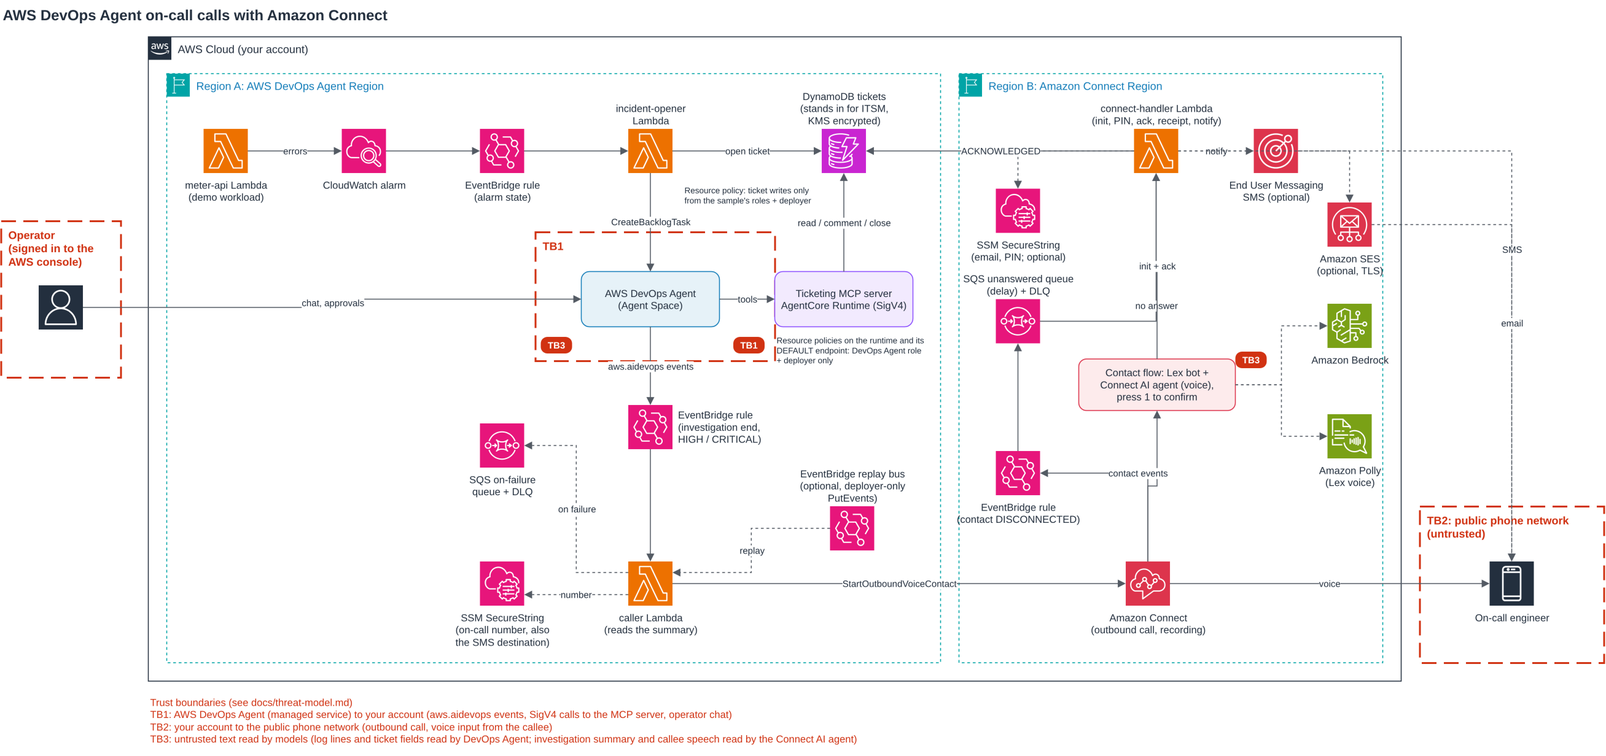
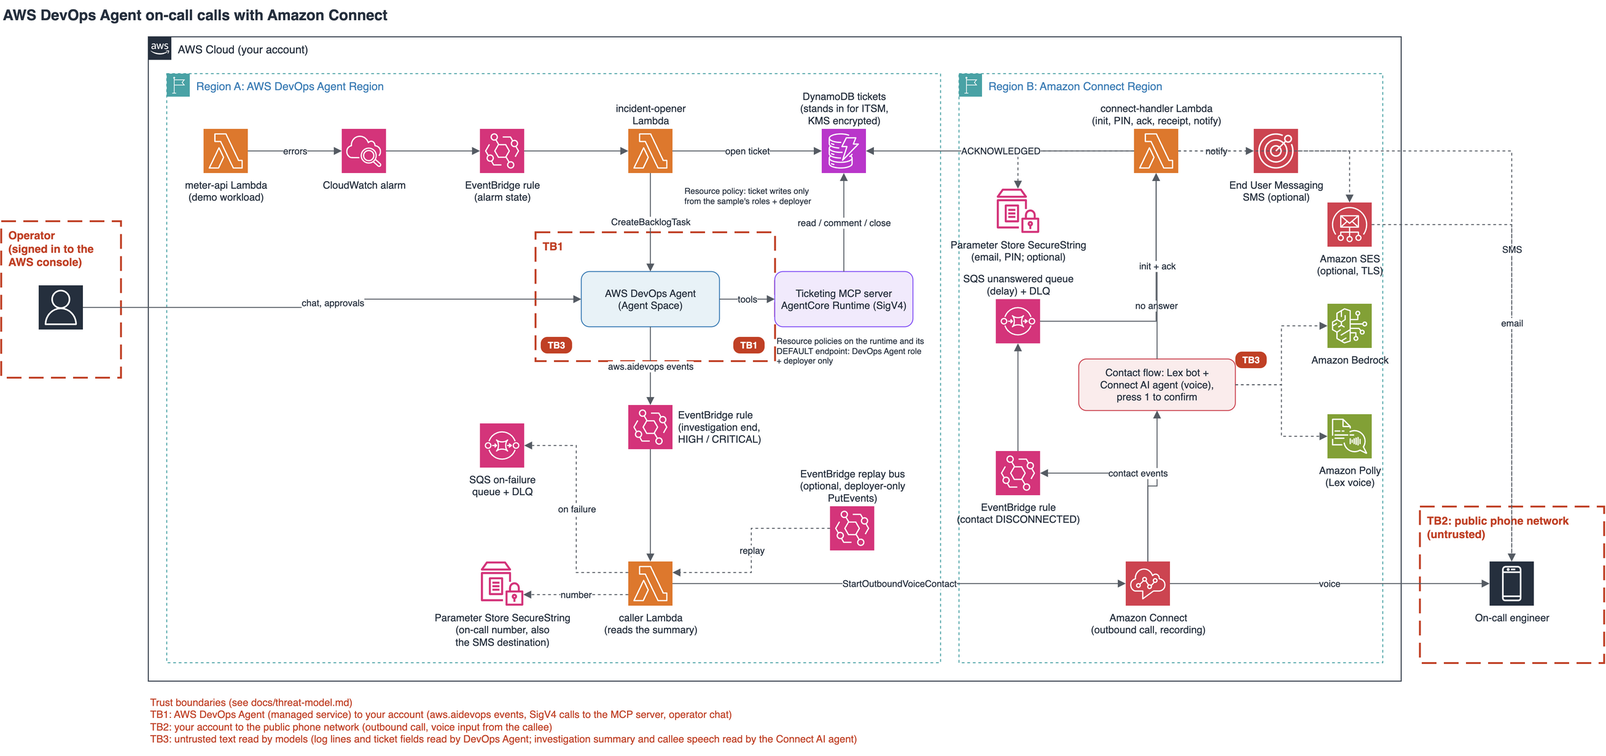
Docs: plain-language README opening, teaser GIF, How it works diagrams, Parameter Store naming
- README: open with what the sample does in four steps; the custom MCP server comes second
- README: silent teaser GIF (docs/teaser.gif) and a How it works section (Mermaid flowchart and
  step-by-step sequence, including the optional PIN and the unanswered-call path)
- Docs, variable description and architecture diagram: 'SSM SecureString' becomes
  'Parameter Store SecureString', with the official Parameter Store icon
- No resource, code or test change

diff --git a/scripts/dev/gen_diagram.py b/scripts/dev/gen_diagram.py
@@ -35,8 +35,9 @@ def vertex(label, style, x, y, w, h):
     return i
 
 
-def icon(label, res, color, x, y, side="bottom"):
-    """AWS resource icon. side='top', 'left' or 'right' keeps the label off the arrows."""
+def icon(label, res, color, x, y, side="bottom", resource=False):
+    """AWS service icon, or resource icon when resource=True (draw.io shape mxgraph.aws4.<res>).
+    side='top', 'left' or 'right' keeps the label off the arrows."""
     if side == "bottom":
         pos = "verticalLabelPosition=bottom;verticalAlign=top;align=center;"
     elif side == "top":
@@ -45,10 +46,12 @@ def icon(label, res, color, x, y, side="bottom"):
         pos = "labelPosition=left;verticalLabelPosition=middle;align=right;verticalAlign=middle;spacingRight=4;"
     else:
         pos = "labelPosition=right;verticalLabelPosition=middle;align=left;verticalAlign=middle;spacingLeft=4;"
+    shape = f"shape=mxgraph.aws4.{res};pointerEvents=1;strokeColor=none;" if resource else (
+        f"shape=mxgraph.aws4.resourceIcon;resIcon=mxgraph.aws4.{res};strokeColor=#ffffff;"
+    )
     style = (
-        f"sketch=0;outlineConnect=0;fontColor=#232F3E;fillColor={color};strokeColor=#ffffff;dashed=0;"
-        f"{pos}html=1;fontSize=11;fontStyle=0;aspect=fixed;shape=mxgraph.aws4.resourceIcon;"
-        f"resIcon=mxgraph.aws4.{res};"
+        f"sketch=0;outlineConnect=0;fontColor=#232F3E;fillColor={color};dashed=0;"
+        f"{pos}html=1;fontSize=11;fontStyle=0;aspect=fixed;{shape}"
     )
     return vertex(label, style, x, y, 48, 48)
 
@@ -129,7 +132,7 @@ mcp = box("Ticketing MCP server\nAgentCore Runtime (SigV4)", DX + 700, 305, 150,
 # Rows 3-4: investigation events -> caller
 eb2 = icon("EventBridge rule\n(investigation end,\nHIGH / CRITICAL)", "eventbridge", PINK, DX + 541, 450, side="right")
 caller = icon("caller Lambda\n(reads the summary)", "lambda", ORANGE, DX + 541, 620)
-ssm = icon("SSM SecureString\n(on-call number, also\nthe SMS destination)", "systems_manager", PINK, DX + 380, 620)
+ssm = icon("Parameter Store SecureString\n(on-call number, also\nthe SMS destination)", "parameter_store", PINK, DX + 380, 620, resource=True)
 dlq = icon("SQS on-failure\nqueue + DLQ", "sqs", PINK, DX + 380, 470)
 # Optional replay path (enable_replay): its own bus, PutEvents denied to all but the deployer.
 replay = icon("EventBridge replay bus\n(optional, deployer-only\nPutEvents)", "eventbridge", PINK, DX + 760, 560, side="top")
@@ -158,7 +161,7 @@ bedrock = icon("Amazon Bedrock", "bedrock", GREEN, DX + 1300, 340)
 polly = icon("Amazon Polly\n(Lex voice)", "polly", GREEN, DX + 1300, 460)
 sms = icon("End User Messaging\nSMS (optional)", "pinpoint", RED, DX + 1220, 150)
 ses = icon("Amazon SES\n(optional, TLS)", "simple_email_service", RED, DX + 1300, 230)
-ssm_b = icon("SSM SecureString\n(email, PIN; optional)", "systems_manager", PINK, DX + 940, 215)
+ssm_b = icon("Parameter Store SecureString\n(email, PIN; optional)", "parameter_store", PINK, DX + 940, 215, resource=True)
 eb3 = icon("EventBridge rule\n(contact DISCONNECTED)", "eventbridge", PINK, DX + 940, 500)
 unanswered = icon("SQS unanswered queue\n(delay) + DLQ", "sqs", PINK, DX + 940, 335, side="top")
 connect = icon("Amazon Connect\n(outbound call, recording)", "connect", RED, DX + 1081, 620)

diff --git a/docs/threat-model.md b/docs/threat-model.md
@@ -9,7 +9,7 @@ needs a dedicated AWS account (see [Accepted risks](#accepted-risks)).
 
 | Asset | Where |
 |:--|:--|
-| On-call phone number, email and optional PIN | SSM `SecureString` parameters, customer managed KMS key, set outside Terraform (read back into Terraform state on refresh) |
+| On-call phone number, email and optional PIN | Parameter Store `SecureString` parameters, customer managed KMS key, set outside Terraform (read back into Terraform state on refresh) |
 | Tickets and acknowledgments | DynamoDB table, customer managed KMS key, point-in-time recovery, resource policy that denies writes to every principal except the sample's roles and the deployer principals |
 | Investigation summaries | AWS DevOps Agent journal; sanitized and stored on the ticket item (attribute `summary`, not a contact attribute or a flow parameter), copied into the Connect AI agent session on press 1, and sent in the no-answer email when email is configured |
 | Call recordings | KMS-encrypted S3 bucket, created by `connect-instance` when `create_connect_instance = true`; on an existing instance it is the instance owner's bucket. Only written when `enable_call_recording = true` |
@@ -38,13 +38,13 @@ The diagram marks them TB1 to TB3.
 
 | # | Threat (STRIDE) | Mitigation in the sample | Residual risk / production action |
 |:--|:--|:--|:--|
-| T1 | **Toll fraud / spoofed trigger** (S): someone emits events to place calls | Calls and the no-answer SMS only go to the number stored in SSM, never to a number from the event or the contact; the contact-event path acts only on the contact bound to the ticket (`oncallContactId`). At most one call per ticket (conditional `callState` claim). The rule on `aws.aidevops` matches only this Agent Space (`agent_space_id`); `PutEvents` on `aws.*` sources is refused by EventBridge. The replay rule is off by default (`enable_replay = false`); when on, it listens on a dedicated event bus whose policy denies `events:PutEvents` to every principal except the deployer principals | Enable the replay rule only for the `scripts/replay.py` demo and turn it back off afterwards |
+| T1 | **Toll fraud / spoofed trigger** (S): someone emits events to place calls | Calls and the no-answer SMS only go to the number stored in Parameter Store, never to a number from the event or the contact; the contact-event path acts only on the contact bound to the ticket (`oncallContactId`). At most one call per ticket (conditional `callState` claim). The rule on `aws.aidevops` matches only this Agent Space (`agent_space_id`); `PutEvents` on `aws.*` sources is refused by EventBridge. The replay rule is off by default (`enable_replay = false`); when on, it listens on a dedicated event bus whose policy denies `events:PutEvents` to every principal except the deployer principals | Enable the replay rule only for the `scripts/replay.py` demo and turn it back off afterwards |
 | T2 | **Call storm** (D): a flapping alarm or replayed event calls repeatedly | Priority filter (HIGH, CRITICAL), `ClientToken` = execution id + status (idempotent for 7 days in Connect), EventBridge retries capped. One call per ticket: the caller claims the ticket (OPEN and no `callState`) before `StartOutboundVoiceContact`, released on a Connect error. The caller runs with a reserved concurrency of 1 by default, so calls are placed one at a time. One incident per alarm until its ticket is CLOSED: a lock item (`ALARM#<name>`) is taken before a ticket is opened; while the ticket is OPEN or ACKNOWLEDGED a repeated ALARM only comments it (up to the comment cap), however long the incident lasts, and each suppressed ALARM is counted in the `<prefix>/oncall` `AlarmSuppressed` metric. An optional AWS Budgets alert (`budget_alert_email`) warns on the account's monthly cost | A distinct alarm, or a new ALARM after the ticket is closed, still calls. A lock left pointing to a ticket that was never written (the first invocation failed for good after taking it) blocks new incidents for that alarm until the `ALARM#<name>` item is deleted; that failed invocation lands in the opener's on-failure queue. The `AlarmSuppressed` metric has no alarm: add one if a long suppression must page someone |
 | T3 | **Prompt injection through logs or tickets** (T, E): crafted text steers AWS DevOps Agent to write tickets | Write tools are classified `MUTATIVE` on this server's DevOps Agent association: in the chat they need a human approval, and they are refused in autonomous investigations. The approval is a property of the association, not something the MCP server checks. The association is created fail-closed: the write tools (`add_comment`, `close_ticket`) are only enabled together with their `MUTATIVE` classification; the classification script reads the association back and rolls back to the read-only tools if the check fails. Ticket text returned by `get_ticket` and `list_open_tickets` goes through the sanitizer, and the stored investigation summary is never returned | Keep every write tool `MUTATIVE`. An unclassified write tool runs as `READ_ONLY`, without approval. Approval does not make the written text trustworthy: review what the agent proposes before approving |
 | T3b | **Direct invocation of the ticket service by another caller** (S, E): a principal of the account calls the MCP runtime or writes the ticket table directly, closing a ticket without the DevOps Agent approval step (which silences the page) | The runtime and its DEFAULT endpoint carry resource policies with an explicit Deny on every invocation action for any principal other than the DevOps Agent SigV4 role and the deployer principals (`deployer_principal_arns`). The ticket table's resource policy denies data-plane writes to every principal except the `incident-opener`, `caller`, `connect-handler` and MCP runtime roles and the deployer principals. `close_ticket` only moves a ticket from OPEN or ACKNOWLEDGED; this is a consistency rule, not an access control (closing an OPEN ticket is allowed) | The deployer principals keep direct access by design: restrict who can assume them. The DevOps Agent SigV4 role trusts `service/*` in the account and Region (see [Accepted risks](#accepted-risks)) |
 | T3c | **Ticket text re-read by the AI on every call** (T): text written once (alarm reason, a callee's note, a comment) is read again by AWS DevOps Agent each time it reads the ticket, so an injection persists | Every string stored or returned by the ticket service passes the sanitizer; ticket ids must match `INC-<8 hex>`; comments and resolutions are capped at 2000 characters and a ticket holds at most 50 comments; `toolCalls` keeps only the length of each text argument; `list_open_tickets` reads at most 5 scan pages and returns at most 100 tickets (truncation is logged). The stored investigation summary is never returned to AWS DevOps Agent | Plain-prose instructions pass the sanitizer. Writes still need approval (T3), so injected ticket text can at most influence what the agent proposes |
 | T4 | **Prompt injection through the summary or the callee** (T): injected text in the investigation summary, or the callee, induces a false acknowledgment (which replaces the no-answer SMS and email by a receipt) or steers the spoken answers | The ticket ID comes from the contact attribute set by the `caller` Lambda, not from the model. The summary is sanitized and placed in the prompt as fenced untrusted data with an instruction never to follow instructions inside it; the Acknowledge note is sanitized the same way (200 characters). An `AWS::Wisdom::AIGuardrail` with a `PROMPT_ATTACK` input filter (HIGH) and harmful-content filters is attached to the AI agent by default. The prompt accepts as acknowledgment an explicit statement that the engineer takes the incident, or a short confirmation (a bare "yes") to the agent's direct question "can you take this incident?"; never a "yes" to another offer, and never in the turn where the agent asks. The model's `Acknowledge` alone does not acknowledge: the flow then asks the callee to press 1 to confirm ("to confirm you take incident X, press 1"). Only on 1 does `connect-handler` write ACKNOWLEDGED (`ackMethod: voice+dtmf`), and only from the call placed for that ticket (`oncallContactId`); without the 1 the ticket stays OPEN and the normal SMS/email goes out. A confirmed acknowledgment sends one written receipt ("you acknowledged INC-x at T") on the configured channels. `dry_run = false` requires `enable_pin = true` unless `allow_live_without_pin = true` | Sanitizing, fencing and capping reduce but do not remove prompt-injection risk: plain-prose instructions and homoglyphs NFKC does not fold pass through, and the model can still misstate the summary. The guardrail documentation does not say its prompt-attack filter scans the summary, which sits in the prompt, so that path relies on the sanitizer and the fence. An ACKNOWLEDGED ticket is never re-paged (no call, SMS or email after the receipt): a wrong confirmation is corrected out of band, from the receipt or in the DevOps Agent chat. There is no reopen path (status goes OPEN to ACKNOWLEDGED or CLOSED only) |
-| T5 | **Disclosure of the incident to the wrong person** (I): voicemail or a reassigned number hears the summary; the no-answer email carries the full summary off-account through SES | The number is set outside Terraform and masked in logs. The SMS carries only ticket, service, priority and status. The email (`notify_email_from`) carries the full summary to the `/<prefix>/oncall-email` recipient, through an SES configuration set that requires TLS (assign it as the sender identity's default configuration set). Both channels are off by default. Optional `enable_pin`: a DTMF PIN, checked in constant time against an SSM `SecureString`, gates the AI session, and the opening message drops the service name | Turn on `enable_pin` with real people, with flow logging off. The PIN is a bystander control, not authentication: two attempts per call, no lockout across calls, length chosen by the deployer (use 6 digits or more). Send the email to a team mailbox you control. The summary is written by a model from logs and is not filtered for personal data |
+| T5 | **Disclosure of the incident to the wrong person** (I): voicemail or a reassigned number hears the summary; the no-answer email carries the full summary off-account through SES | The number is set outside Terraform and masked in logs. The SMS carries only ticket, service, priority and status. The email (`notify_email_from`) carries the full summary to the `/<prefix>/oncall-email` recipient, through an SES configuration set that requires TLS (assign it as the sender identity's default configuration set). Both channels are off by default. Optional `enable_pin`: a DTMF PIN, checked in constant time against a Parameter Store `SecureString`, gates the AI session, and the opening message drops the service name | Turn on `enable_pin` with real people, with flow logging off. The PIN is a bystander control, not authentication: two attempts per call, no lockout across calls, length chosen by the deployer (use 6 digits or more). Send the email to a team mailbox you control. The summary is written by a model from logs and is not filtered for personal data |
 | T5b | **PII in logs** (I): phone numbers, email addresses or the summary leak into CloudWatch or flow logs | The handler logs error codes and types only, never phone numbers, email addresses, summaries or free text; the AI tool audit lines carry ids, outcomes and lengths only. The summary is not a contact attribute or a flow parameter, so flow logs do not record it; flow logs can record the remaining Lambda block parameters (ticket, service, priority, status, and with the PIN on the entered digits), so flow logging is off by default and refused together with `enable_pin`. Customer managed KMS keys and `log_retention_days` apply to the log groups the sample creates | Leave `enable_flow_logging = false` unless you accept the short incident context in the flow log group. The AgentCore Runtime log group is created by the service without the customer managed key or a retention period. Lower the retention default outside a demo, and review any custom log line before adding it |
 | T5c | **Summary persisting in Connect records** (I): the incident content outlives the call in Connect | The summary is stored on the ticket, not in contact attributes, so Connect contact records do not carry it. Contact records keep the short context (ticket, service, priority, status) | The Amazon Q in Connect session holds the summary for the session lifetime, and what the AI agent speaks is derived from it; transcripts and recordings, when enabled on the instance, can keep that content. Retention of contact records, transcripts and sessions follows the instance, which this sample does not set: decide it before calling real people |
 | T6 | **Secret or PII in state, code or logs** (I) | Number, email and optional PIN set with `aws ssm put-parameter` (not Terraform inputs, not Lambda environment variables), masked in logs; customer managed KMS keys on logs, Lambda environment, table, queues, the code and recordings buckets and the parameters. `ignore_changes = [value]` keeps the value out of code, not out of state: Terraform reads the decrypted parameter back into state on refresh. Identity policies use the keys only through the services that need them (`kms:ViaService`) | Use the encrypted remote state (`backend.tf.example`: SSE-KMS, versioning, restricted access) and never commit or share state; the default local backend writes state in clear text |

diff --git a/README.md b/README.md
@@ -1,14 +1,24 @@
 # AWS DevOps Agent on-call calls with Amazon Connect
 
-This sample shows two patterns around [AWS DevOps Agent](https://aws.amazon.com/devops-agent/):
+<p align="center">
+  <img src="docs/teaser.gif" width="360"
+       alt="Teaser: a CloudWatch alarm opens a HIGH ticket, AWS DevOps Agent finds the cause, Amazon Connect calls the on-call engineer who takes the incident by voice, then the ticket is closed from the DevOps Agent chat through the custom MCP server after an approval">
+</p>
 
-1. **A custom MCP server**: the operator reads and updates the incident ticket from the DevOps Agent
-   chat, through a ticketing MCP server on Amazon Bedrock AgentCore Runtime. Every write needs a
-   human approval.
-2. **An on-call call at the end of the investigation**: a CloudWatch alarm opens a ticket and an
-   investigation; when the investigation ends, Amazon Connect calls the on-call engineer. A Connect
-   AI agent summarizes what DevOps Agent found, answers questions, and acknowledges the ticket
-   when the engineer says they take the incident.
+When production breaks, [AWS DevOps Agent](https://aws.amazon.com/devops-agent/) investigates and
+Amazon Connect phones the on-call engineer with what it found. In short:
+
+1. A CloudWatch alarm fires. A ticket opens and AWS DevOps Agent starts an investigation.
+2. When the investigation ends on a HIGH or CRITICAL incident, Amazon Connect calls the on-call
+   engineer.
+3. The engineer presses 1 (and enters a PIN if enabled). A Connect AI agent explains what DevOps
+   Agent found and answers questions.
+4. The engineer says they take the incident, and the ticket is acknowledged. If nobody takes the
+   call, the ticket is commented and an optional SMS and/or email is sent.
+
+The sample also adds a **custom MCP server** to DevOps Agent: from the DevOps Agent chat, the
+operator reads and updates the same ticket through a ticketing MCP server on Amazon Bedrock
+AgentCore Runtime. Every write needs a human approval.
 
 Everything is deployed with Terraform (`hashicorp/aws` and `hashicorp/awscc`).
 
@@ -18,6 +28,60 @@ Everything is deployed with Terraform (`hashicorp/aws` and `hashicorp/awscc`).
 > creates billable resources and places real phone calls (see [Costs](#costs)). Read
 > [Security considerations](#security-considerations) before calling real people: a pilot with
 > real on-call staff needs a dedicated AWS account.
+
+## How it works
+
+```mermaid
+flowchart LR
+    A["CloudWatch alarm<br/>ticket opened"] --> B["AWS DevOps Agent<br/>investigates"]
+    B --> C["Amazon Connect<br/>calls the on-call engineer<br/>(HIGH / CRITICAL)"]
+    C --> D{"Engineer<br/>presses 1?"}
+    D -- yes --> E["Connect AI agent<br/>explains, answers"]
+    E --> F["Engineer takes it<br/>ticket acknowledged"]
+    D -- "no, or no answer" --> G["Ticket commented<br/>SMS / email fallback"]
+    O["Operator in the<br/>DevOps Agent chat"] -. "custom MCP server<br/>writes need approval" .-> T[("Ticket")]
+```
+
+<details>
+<summary>Step by step</summary>
+
+```mermaid
+sequenceDiagram
+    autonumber
+    participant CW as CloudWatch alarm
+    participant T as Ticket (DynamoDB)
+    participant DA as AWS DevOps Agent
+    participant C as Amazon Connect
+    actor E as On-call engineer
+    actor O as Operator
+
+    CW->>T: alarm fires, ticket OPEN
+    CW->>DA: start an investigation
+    DA-->>DA: investigates, finds the cause
+    DA->>C: investigation ends (HIGH / CRITICAL): call the on-call engineer
+    C->>E: phone call, "press 1"
+    alt engineer presses 1
+        opt PIN enabled
+            E->>C: enters the on-call PIN
+        end
+        C->>E: Connect AI agent summarizes the findings, answers questions
+        E->>C: "I take it"
+        C->>T: ACKNOWLEDGED
+    else 1 not pressed, or call not answered
+        C->>T: comment "not acknowledged"
+        C->>E: optional SMS and/or email
+    end
+    O->>DA: chat: "close the ticket"
+    DA->>T: read the ticket (ticketing MCP server, no approval)
+    DA->>O: ask approval to write
+    O->>DA: approve
+    DA->>T: CLOSED
+```
+
+Steps 1 to 11 are the on-call call. The last steps are the custom MCP server pattern: DevOps Agent
+reads the ticket freely, and every write waits for the operator's approval in the chat.
+
+</details>
 
 ## Architecture
 
@@ -112,7 +176,7 @@ default provider Region) and the Connect Region (`connect_region`). Where each s
 | Amazon Connect instance and the outbound call | Connect Region | Pick it for the country of the on-call number (see the allow-list below). |
 | Connect AI agents (Amazon Q in Connect) | Connect Region | The instance must support AI agents (Amazon Connect Customer tier); confirm AI agents are available in your Connect Region (see [Enable AI agents](https://docs.aws.amazon.com/connect/latest/adminguide/enable-q.html) and the [Amazon Connect endpoints and quotas](https://docs.aws.amazon.com/general/latest/gr/connect-service.html)). |
 | Amazon Bedrock model and inference profile | Connect Region's geography | The Connect AI agent reaches Claude Haiku 4.5 through the cross-Region inference profile whose prefix matches the Connect Region's geography (`eu.`, `us.` or `apac.`). A geography-tied profile routes to several Regions inside that geography; the exact source and destination Regions are listed per profile on the [supported cross-Region inference profiles](https://docs.aws.amazon.com/bedrock/latest/userguide/inference-profiles-support.html) page, confirm them for your geography. The cross-Region inference profile routing and the geography-prefix rule are documented in [Increase throughput with cross-Region inference](https://docs.aws.amazon.com/bedrock/latest/userguide/cross-region-inference.html). |
-| AWS End User Messaging SMS origination identity | Connect Region | Optional notification channel. SMS and the SSM parameter live next to `connect-handler`. |
+| AWS End User Messaging SMS origination identity | Connect Region | Optional notification channel. SMS and the Parameter Store parameter live next to `connect-handler`. |
 | Amazon SES verified sender | Connect Region | Optional notification channel. SES is available in the common Connect Regions (verified: eu-central-1, eu-west-2, us-east-1, us-west-2 among others). |
 
 The boto3 Lambda layer is built and published in the Connect Region and attached to
@@ -471,7 +535,8 @@ The threats behind these choices are in [docs/threat-model.md](docs/threat-model
   without a retention period (see Clean up and [docs/terraform.md](docs/terraform.md#gotchas)).
   The MCP code bucket uses SSE-KMS with the same key, blocks public access and denies non-TLS
   requests; every SQS queue denies non-TLS requests.
-- **On-call number**: SSM `SecureString`, set outside Terraform (`ignore_changes`), masked in logs.
+- **On-call number**: Parameter Store `SecureString` (customer managed KMS key), set outside
+  Terraform (`ignore_changes`), masked in logs.
   Terraform reads the decrypted value back into state on refresh, so treat the state as
   sensitive (encrypted remote backend, never commit or share it). Calls and the no-answer SMS
   only go to that number, never to a number taken from an event or a contact.
@@ -495,7 +560,7 @@ The threats behind these choices are in [docs/threat-model.md](docs/threat-model
   workload is only invoked through the Lambda API. The `caller`, `connect-handler` and MCP runtime
   roles use inline policies
   scoped to the resources they touch (their own log group, the ticket table, the specific Connect
-  and SSM ARNs). The `meter-api` workload and `incident-opener` functions also write logs only to
+  and Parameter Store ARNs). The `meter-api` workload and `incident-opener` functions also write logs only to
   their own log group (`CreateLogStream`, `PutLogEvents`, no `CreateLogGroup`). All four functions
   attach the managed `AWSXRayDaemonWriteAccess` (X-Ray has no
   resource type). Grants that stay on `Resource = "*"` because the action has no resource type in
@@ -531,7 +596,7 @@ The threats behind these choices are in [docs/threat-model.md](docs/threat-model
 - **Optional PIN gate.** With `enable_pin = true` the flow asks for a DTMF PIN after the engineer
   presses 1 and before the AI agent says anything about the incident; the opening message then gives
   the priority only, not the service. `connect-handler` compares the digits in constant time with
-  the SSM SecureString `/<prefix>/oncall-pin` (set outside Terraform, like the on-call number; read
+  the Parameter Store `SecureString` `/<prefix>/oncall-pin` (set outside Terraform, like the on-call number; read
   back into state on refresh). Two wrong PINs lead to the no-answer path. The PIN is never logged,
   but Connect flow logs record Lambda parameters: keep `enable_flow_logging = false` with the PIN on.
   `enable_pin` is `false` by default, so whoever answers the phone hears the summary after pressing 1.
@@ -578,7 +643,7 @@ done so the number stops billing.
 ## Clean up
 
 `terraform destroy` in `terraform/envs/demo` removes everything this project created, including the
-SSM parameters and, on a supplied Connect instance, the contact flow and the assistant, Lex bot
+Parameter Store parameters and, on a supplied Connect instance, the contact flow and the assistant, Lex bot
 and Lambda function associations it added. The Agent Space is not managed by this
 project, nor is an existing Connect instance. An instance created with `create_connect_instance =
 true` is deleted with its claimed number (released numbers cannot be claimed back), its flow log

diff --git a/docs/terraform.md b/docs/terraform.md
@@ -26,7 +26,7 @@ terraform/
 | `foundation` | DevOps Agent Region | `meter-api` Lambda, CloudWatch alarm, DynamoDB tickets table, `incident-opener` Lambda (one incident per alarm until its ticket is CLOSED: lock item `ALARM#<name>`), EventBridge rules, event archive log group |
 | `mcp-ticketing` | DevOps Agent Region | `aws_bedrockagentcore_agent_runtime`, runtime and DEFAULT endpoint resource policies, IAM roles, `awscc_devopsagent_service`, `awscc_devopsagent_association`, `terraform_data` (classification, optional trust narrowing) |
 | `connect-instance` | Connect Region | `aws_connect_instance`, `aws_connect_phone_number`, flow log group `/aws/connect/<alias>`, recordings S3 bucket + `aws_connect_instance_storage_config` (`CALL_RECORDINGS`). Created only with `create_connect_instance = true` |
-| `oncall` | both | DevOps Agent Region (`caller.tf`): EventBridge rule on `aws.aidevops`, `caller` Lambda, target DLQ, on-failure queue, SSM `SecureString`. Connect Region: `awscc_wisdom_assistant` + association (`assistant.tf`), `awscc_wisdom_ai_prompt` and `awscc_wisdom_ai_agent` with their versions (`agent.tf`), Lex bot as `aws_cloudformation_stack` (`lex.tf`), `connect-handler` Lambda, optional `/<prefix>/oncall-email` SSM `SecureString`, EventBridge rule on Connect contact events for unanswered calls (`handler.tf`), `aws_connect_contact_flow` (`flow.tf`) |
+| `oncall` | both | DevOps Agent Region (`caller.tf`): EventBridge rule on `aws.aidevops`, `caller` Lambda, target DLQ, on-failure queue, Parameter Store `SecureString`. Connect Region: `awscc_wisdom_assistant` + association (`assistant.tf`), `awscc_wisdom_ai_prompt` and `awscc_wisdom_ai_agent` with their versions (`agent.tf`), Lex bot as `aws_cloudformation_stack` (`lex.tf`), `connect-handler` Lambda, optional `/<prefix>/oncall-email` Parameter Store `SecureString`, EventBridge rule on Connect contact events for unanswered calls (`handler.tf`), `aws_connect_contact_flow` (`flow.tf`) |
 
 ## Inputs
 
@@ -117,7 +117,7 @@ bus policy lets only the deployer principals publish to it), `deletion_protectio
 by the local scripts). The
 `oncall` module also takes `model_id` (default: Claude Haiku 4.5 profile of the Connect Region).
 
-The on-call number and email are never Terraform inputs: the SSM parameters are created with a
+The on-call number and email are never Terraform inputs: the Parameter Store parameters are created with a
 placeholder and `ignore_changes = [value]`, and you set the real values with `aws ssm put-parameter`.
 `ignore_changes = [value]` stops Terraform overwriting the externally-set value; it does not keep
 the value out of state. On refresh the AWS provider reads the parameter and persists the decrypted
@@ -130,7 +130,7 @@ value in state, so treat the state file as sensitive: use the encrypted S3 backe
 |:--|:--|:--|
 | Agent Space and its account association | created in the DevOps Agent console | input |
 | Connect instance, phone number | shared, usually owned by another team; or created by `modules/connect-instance` | inputs or `create_connect_instance` |
-| On-call number and email values | keep them out of code and out of Terraform inputs; set by hand so a redeploy does not overwrite them (Terraform still reads them back into state on refresh, so treat state as sensitive) | SSM, set by hand |
+| On-call number and email values | keep them out of code and out of Terraform inputs; set by hand so a redeploy does not overwrite them (Terraform still reads them back into state on refresh, so treat state as sensitive) | Parameter Store, set by hand |
 | DevOps Agent investigation | created at runtime by the `incident-opener` Lambda (`CreateBacklogTask`) | Lambda code |
 | AgentCore Runtime log groups | created by the runtime on first invocation | see gotchas |
 | Connect flow log group of an existing instance | created by Connect (`/aws/connect/<alias>`); managed by Terraform only for a new instance | delete by hand |

diff --git a/CHANGELOG.md b/CHANGELOG.md
@@ -2,6 +2,13 @@
 
 All notable changes to this sample are documented in this file.
 
+## Unreleased
+
+- README: plain-language opening in four steps, a silent teaser GIF (`docs/teaser.gif`), and a
+  How it works section with a simple flowchart and a step-by-step sequence diagram (Mermaid).
+- Docs and architecture diagram: name the on-call number, email and PIN store as Parameter Store
+  `SecureString` (official Parameter Store icon) instead of "SSM SecureString". No resource change.
+
 ## 0.1.0: Initial release
 
 - A CloudWatch alarm opens a ticket and an AWS DevOps Agent investigation; when the investigation
